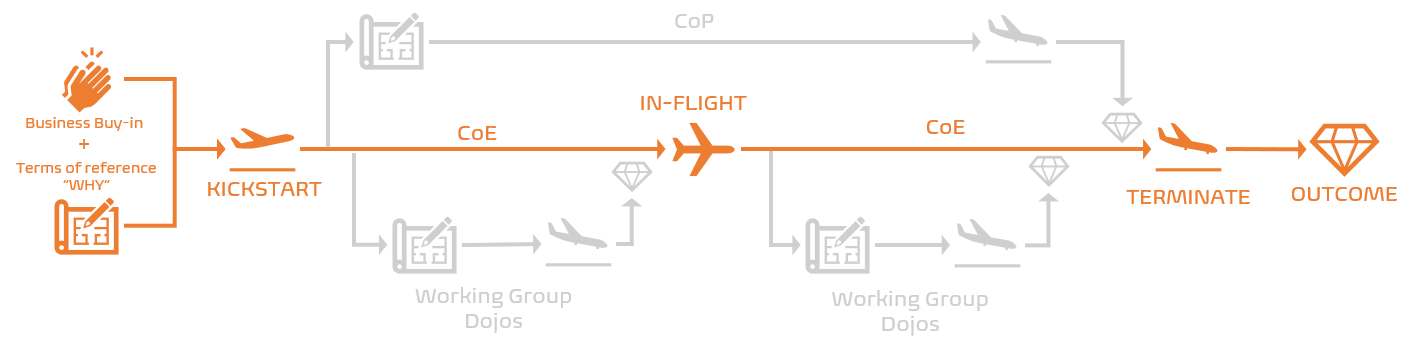
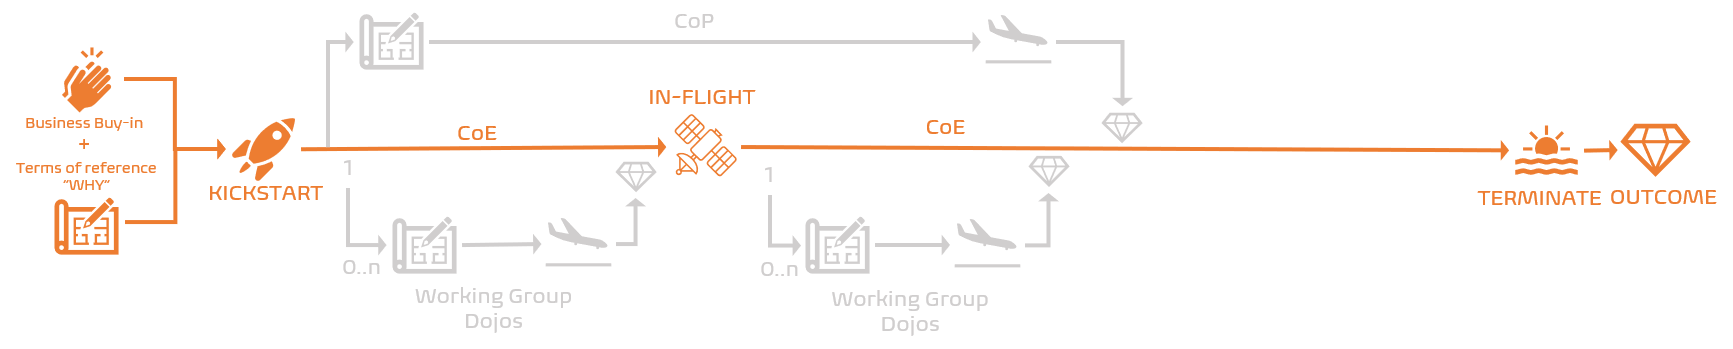
Update the CoE lifetime

diff --git a/content/ceremony-center-of-enablement.md b/content/ceremony-center-of-enablement.md
@@ -40,7 +40,9 @@ As you scale your ecosystem into a ring of interconnected CoEs, you will need to
 
 # Lifetime
 
-As shown below, the Center of Enablement (CoE) has a long-term lifetime, which starts with a terms of reference that outlines the "WHY" we need the CoE. Once we have business buy-in, we LAUNCH the CoE and switch to IN-FLIGHT mode until the value or energy of the CoE starts diminishing. We then TERMINATE the CoE and share the outcomes, the value, transparently. 
+As shown below, the Center of Enablement (CoE) has a long-term lifetime, which starts with a terms of reference that outlines the "WHY" we need the CoE. Once we have business buy-in, we LAUNCH the CoE and switch to IN-FLIGHT mode until the value or energy of the CoE starts diminishing. We then TERMINATE the CoE and share the outcomes, the value, transparently.
+
+That said, think of the CoE lifetime as the [Huygens](https://en.wikipedia.org/wiki/Huygens_(spacecraft)) space probe's lifetime, which could be describes as a potentially infinite journey without any known destination. In comparison I visualize working groups as short regional flights and Communities of Practices as long-haul flights, for example a 15-20+ hour flight from North America to South-Africa.
 
 ![Lifetime](../images/ceremony-center-of-enablement-lifetime.png) 
 
